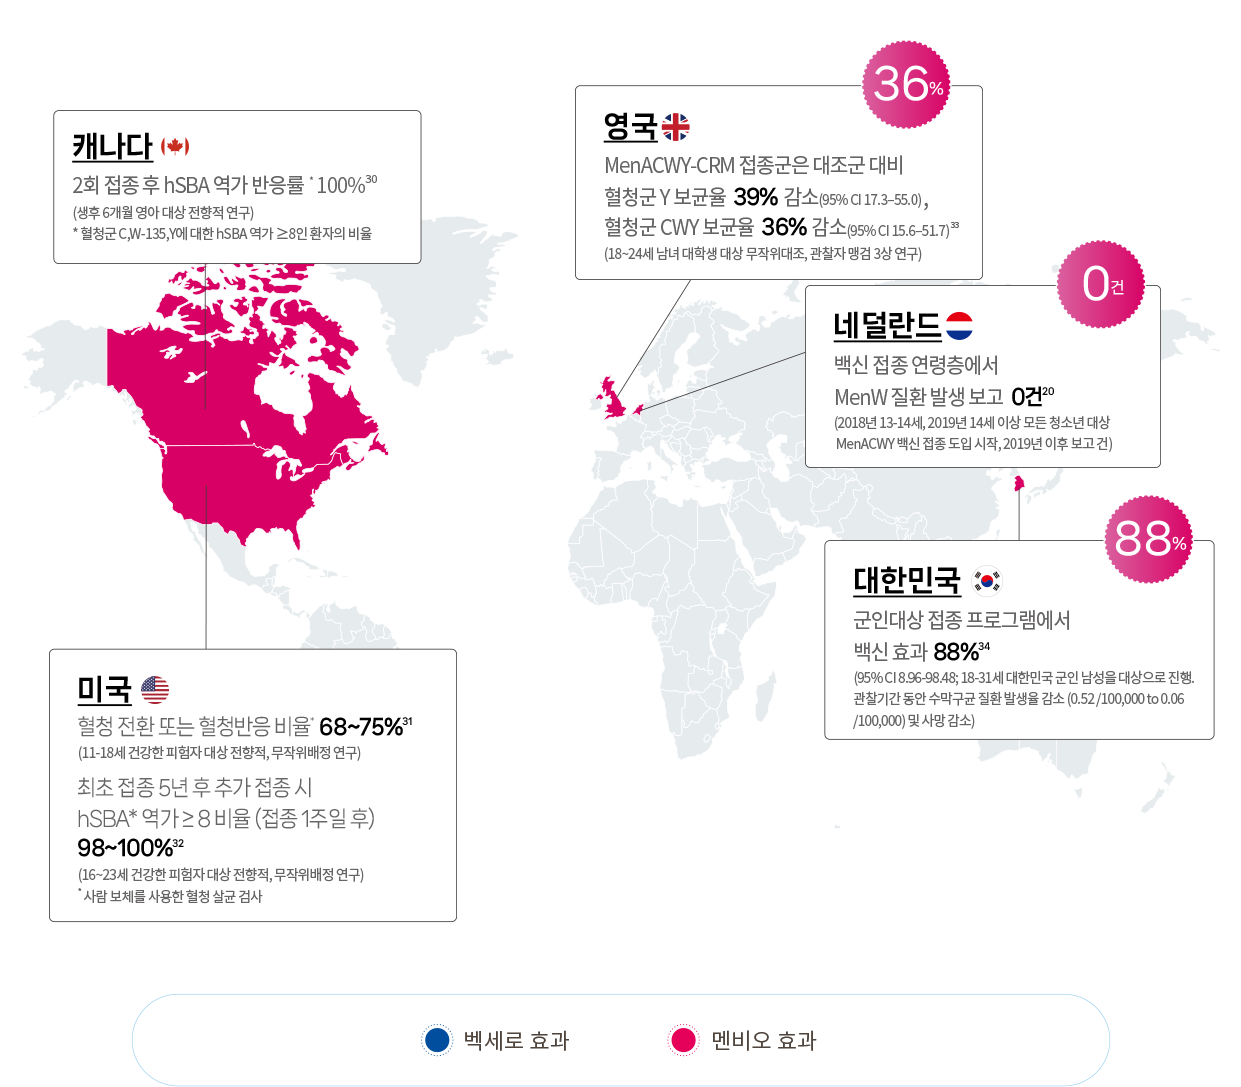
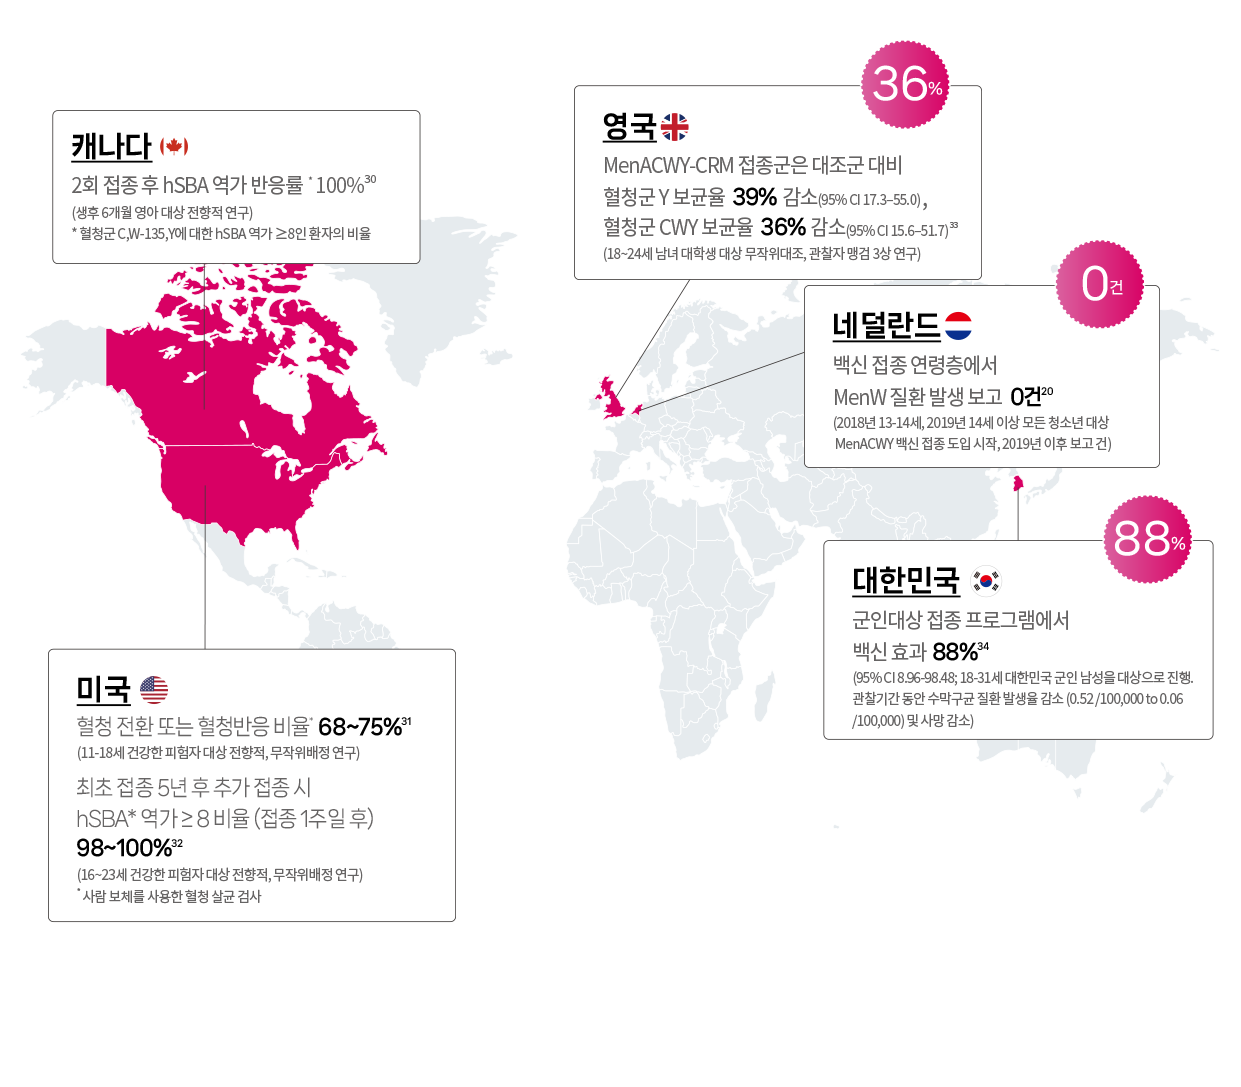
지도 탭 수정

diff --git a/src/html/index.html b/src/html/index.html
@@ -457,10 +457,16 @@
                                 </span>
                             </div>
 
-                            <div class="col-map g_tab_images">
-                                <img src="./assets/img/page2_img3_worldmap1.png" alt="">
-                                <img src="./assets/img/page2_img3_worldmap2.png" alt="">
-                                <img src="./assets/img/page2_img3_worldmap3.png" alt="">
+                            <div class="col-map g-map-wrap">
+                                <div class="g-map-inner">
+                                    <img src="./assets/img/page2_img3_worldmap1.png" data-num="0" alt="">
+                                    <img src="./assets/img/page2_img3_worldmap2.png" data-num="1" alt="">
+                                    <img src="./assets/img/page2_img3_worldmap3.png" data-num="2" alt="">
+                                </div>
+                                <div class="g-map-btns">
+                                    <a href="#" data-num="1">벡세로 효과</a>
+                                    <a href="#" data-num="2">멘비오 효과</a>
+                                </div>
                             </div>
                         </div>
                     </div>
@@ -1113,7 +1119,48 @@
 
                 tabImages.forEach(img => img.addEventListener('click', toggleContent));
 
+                // 지도 클릭 탭
+                const gMapBtns = document.querySelectorAll('.g-map-btns a');
+                const gMapImages = document.querySelectorAll('.g-map-inner img');
+                const gMapDefaultImage = gMapImages[0];
 
+                function showImage(dataNum) {
+                    gMapImages.forEach(img => {
+                        if (img.getAttribute('data-num') === dataNum) {
+                            img.style.display = 'inline-block';
+                        } else {
+                            img.style.display = 'none';
+                        }
+                    });
+                }
+
+                function resetgMapImages() {
+                    gMapImages.forEach(img => {
+                        img.style.display = 'none';
+                    });
+                    gMapDefaultImage.style.display = 'inline-block';
+                }
+
+                gMapBtns.forEach(button => {
+                    button.addEventListener('click', function(event) {
+                        event.preventDefault();
+                        const activeButton = document.querySelector('.g-map-btns a.active');
+                        
+                        if (activeButton && activeButton === button) {
+                            activeButton.classList.remove('active');
+                            resetgMapImages();
+                        } else {
+                            if (activeButton) {
+                                activeButton.classList.remove('active');
+                            }
+                            button.classList.add('active');
+                            showImage(button.getAttribute('data-num'));
+                        }
+                    });
+                });
+
+                // Initialize: hide all gMapImages except the default one
+                resetgMapImages();
             });
         </script>
 

diff --git a/src/assets/css/index.scss b/src/assets/css/index.scss
@@ -1277,6 +1277,33 @@ justify-content: space-between;
     img {cursor: pointer;}
 }
 
+.g-map-wrap {position:relative;padding-bottom:3rem;
+    .g-map-inner {
+        img {display:none;
+            &[data-num="0"] {display:inline-block;}
+        }
+    } 
+    .g-map-btns {position:absolute;bottom:0;left:50%;width:100%;max-width:980px;transform: translateX(-50%); display:flex;justify-content: center;align-items: center; border:0.1rem solid #c1e2f5;gap:9rem;border-radius:9rem;background:#fff;
+        @media (max-width: 1024px) {gap:3.5rem;border-radius:4rem;}
+
+        a {display:flex;color:#4f453d;font-size:2.0rem;font-weight:300;line-height:9rem; justify-content: center; align-items: center;gap:1rem;
+            @media (max-width: 1024px) {font-size:1.2rem;line-height:4rem;gap:0.5rem;}
+
+            &.active {font-weight: bold;}
+            &[data-num="1"], &[data-num="2"] {
+                &:before {display:block;content:"";width:3.5rem;height:3.5rem;
+                    @media (max-width: 1024px) {width:1.75rem;height:1.75rem;}
+                }
+            }
+            &[data-num="1"]:before { background:url(../img/map-dot-blue.png) no-repeat 0 0/35px auto;
+                @media (max-width: 1024px) {background:url(../img/map-dot-blue.png) no-repeat 0 0/17.5px auto;}
+            }
+            &[data-num="2"]:before { background:url(../img/map-dot-red.png) no-repeat 0 0/35px auto;
+                @media (max-width: 1024px) {background:url(../img/map-dot-red.png) no-repeat 0 0/17.5px auto;}
+            }
+        }
+    } 
+}
 
 
 .page3{padding-top: 22rem;
